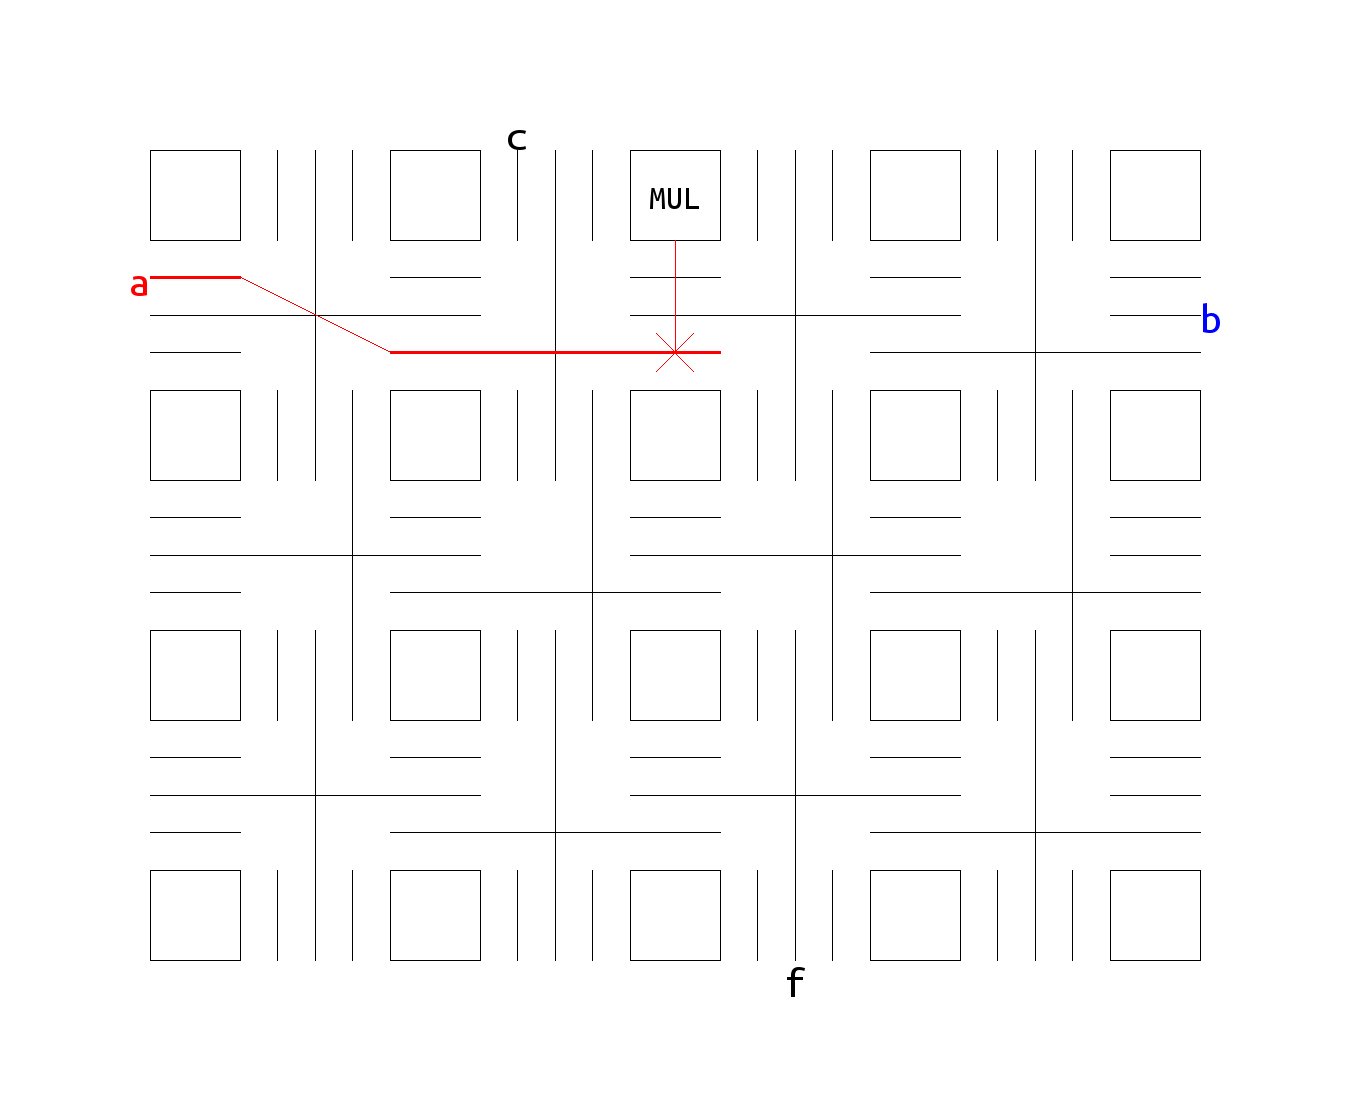
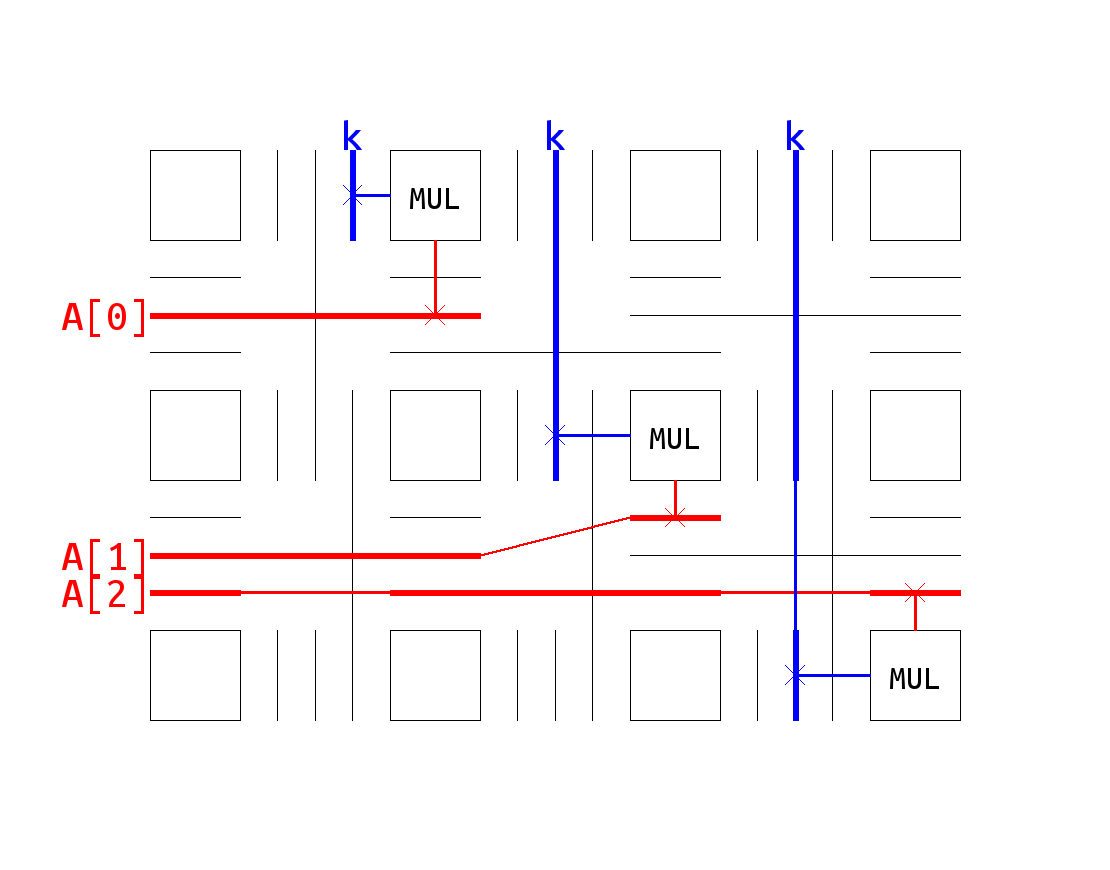
add example for FPGA illustration

diff --git a/chip/element.py b/chip/element.py
@@ -61,10 +61,10 @@ class chip:
                     self.draw.line([x,y0,x,y1], fill='black')
                     self.wire_pos[(0,c+track_fraction)] = [x,y0,x,y1]
                 
-    def sig_flow(self, r, c, fill='red', width=3):
+    def sig_flow(self, r, c, fill='red', width=6):
         self.draw.line(self.wire_pos[(r,c)], fill=fill, width=width)
 
-    def connect(self, r0, c0, r1, c1, fill='red', width=1):
+    def connect(self, r0, c0, r1, c1, fill='red', width=3):
         p0 = np.array(self.wire_pos[(r0,c0)][0:2])
         p1 = np.array(self.wire_pos[(r0,c0)][2:4])
         p2 = np.array(self.wire_pos[(r1,c1)][0:2])
@@ -79,7 +79,7 @@ class chip:
         e = (idx%2==0) and list(p2) or list(p3)
         self.draw.line(s+e, fill=fill, width=width)
     
-    def connect_pin(self, w_r,w_c, b_r,b_c, fill='red'):
+    def connect_pin(self, w_r,w_c, b_r,b_c, fill='red',width=3):
         """
         wire row / column & clb row / column
         """
@@ -87,15 +87,15 @@ class chip:
             cross_y = self.chan_wid + 0.5*self.clb_wid + b_r*(self.chan_wid+self.clb_wid)
             cross_x = self.wire_pos[(w_r,w_c)][0]
             pin_y = cross_y
-            pin_x = (b_c+1)*(self.chan_wid+self.clb_wid) + (b_c-w_c//1)*self.chan_wid
+            pin_x = (b_c+1)*(self.chan_wid+self.clb_wid) - (b_c-w_c//1)*self.clb_wid
         else:
             cross_x = self.chan_wid + 0.5*self.clb_wid + b_c*(self.chan_wid+self.clb_wid)
             cross_y = self.wire_pos[(w_r,w_c)][1]
             pin_x = cross_x
-            pin_y = (b_r+1)*(self.chan_wid+self.clb_wid) + (b_r-w_r//1)*self.chan_wid
+            pin_y = (b_r+1)*(self.chan_wid+self.clb_wid) - (b_r-w_r//1)*self.clb_wid
         
-        self.draw.line([cross_x,cross_y,pin_x,pin_y], fill=fill)
-        diag = 1/8*self.chan_wid
+        self.draw.line([cross_x,cross_y,pin_x,pin_y], fill=fill,width=width)
+        diag = 1/16*self.chan_wid
         self.draw.line([cross_x-diag,cross_y-diag,cross_x+diag,cross_y+diag], fill=fill)
         self.draw.line([cross_x-diag,cross_y+diag,cross_x+diag,cross_y-diag], fill=fill)
 
@@ -128,7 +128,8 @@ class chip:
                 x = x_ctr
             y = y_ctr-dy/2
         self.draw.text([x, y], txt, fill=fill, font=font)
-    
+
+
 
     def save(self):
         self.img.save(self.img_out, "PNG")

diff --git a/example/chip.py b/example/chip.py
@@ -7,20 +7,48 @@ import numpy as np
 
 if __name__ == '__main__':
     U = 30
-    c = chip.element.chip("draw/example/chip1.png", 3*U, 5*U, 4, 5)
+    c = chip.element.chip("draw/example/chip1.png", 3*U, 5*U, 3, 4)
     c.add_track(1/4, 1, True, 0)
     c.add_track(2/4, 2, True, 0)
     c.add_track(3/4, 2, True, 1)
     c.add_track(1/4, 1, False, 0)
     c.add_track(2/4, 2, False, 0)
     c.add_track(3/4, 2, False, 1)
-    c.sig_flow(1/4, 0)
-    c.sig_flow(3/4, 1)
-    c.connect(3/4,1,1/4,0)
-    c.connect_pin(3/4,1,0,2)
-    c.label_clb(0,2,'MUL')
-    c.label_sig(1/4,0, 'a', fill='red')
-    c.label_sig(2/4,4, 'b', fill='blue')
-    c.label_sig(0,1.25, 'c')
-    c.label_sig(2,2.5, 'f')
+    
+    c.label_clb(0,1,'MUL')
+    c.label_clb(1,2,'MUL')
+    c.label_clb(2,3,'MUL')
+
+    c.sig_flow(0.5,0)
+    c.connect_pin(0.5,0,0,1)
+
+    c.sig_flow(1.5,0)
+    c.sig_flow(1.25,2)
+    c.connect(1.5,0,1.25,2)
+    c.connect_pin(1.25,2,1,2)
+
+    c.sig_flow(1.75,0)
+    c.sig_flow(1.75,1)
+    c.sig_flow(1.75,3)
+    c.connect(1.75,0,1.75,1)
+    c.connect(1.75,1,1.75,3)
+    c.connect_pin(1.75,3,2,3)
+
+    c.label_sig(0.5,0,'A[0]',fill='red')
+    c.label_sig(1.5,0,'A[1]',fill='red')
+    c.label_sig(1.75,0,'A[2]',fill='red')
+    
+    c.sig_flow(0,0.75,fill='blue')
+    c.connect_pin(0,0.75,0,1,fill='blue')
+    c.sig_flow(0,1.5,fill='blue')
+    c.connect_pin(0,1.5,1,2,fill='blue')
+    c.sig_flow(0,2.5,fill='blue')
+    c.sig_flow(2,2.5,fill='blue')
+    c.connect(0,2.5,2,2.5,fill='blue')
+    c.connect_pin(2,2.5,2,3,fill='blue')
+
+    c.label_sig(0,0.75,'k',fill='blue')
+    c.label_sig(0,1.5,'k',fill='blue')
+    c.label_sig(0,2.5,'k',fill='blue')
+
     c.save()
